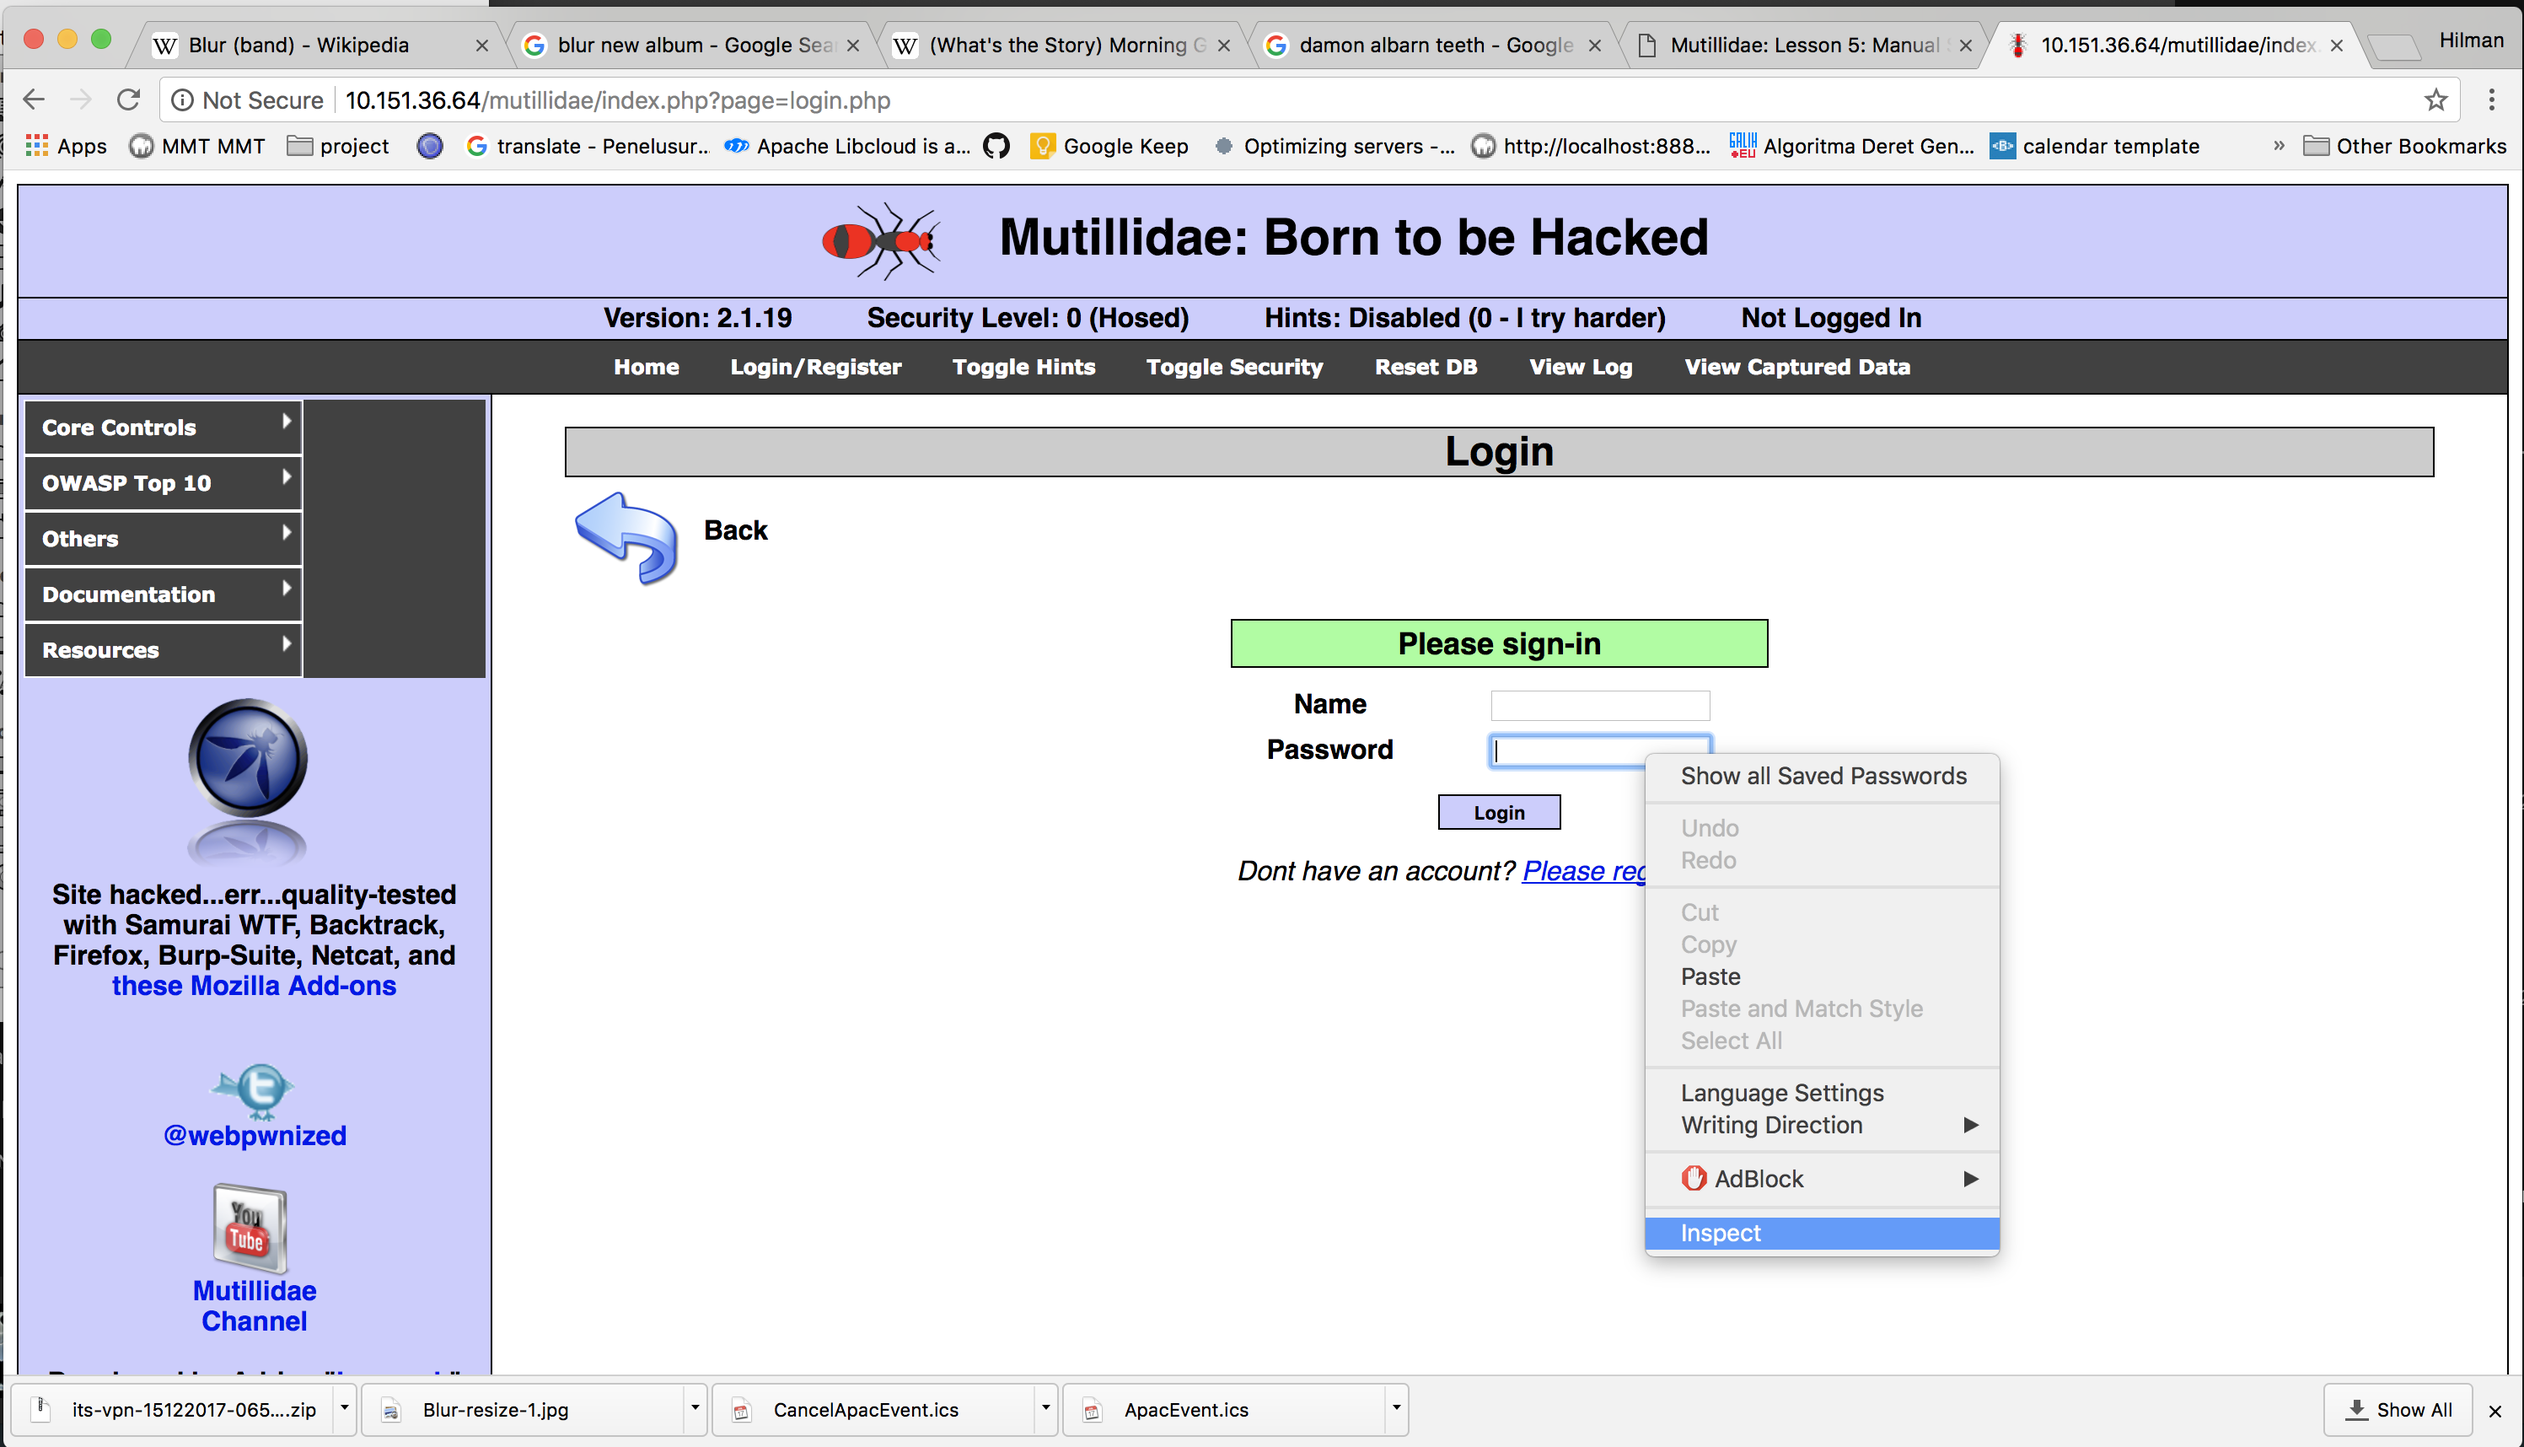
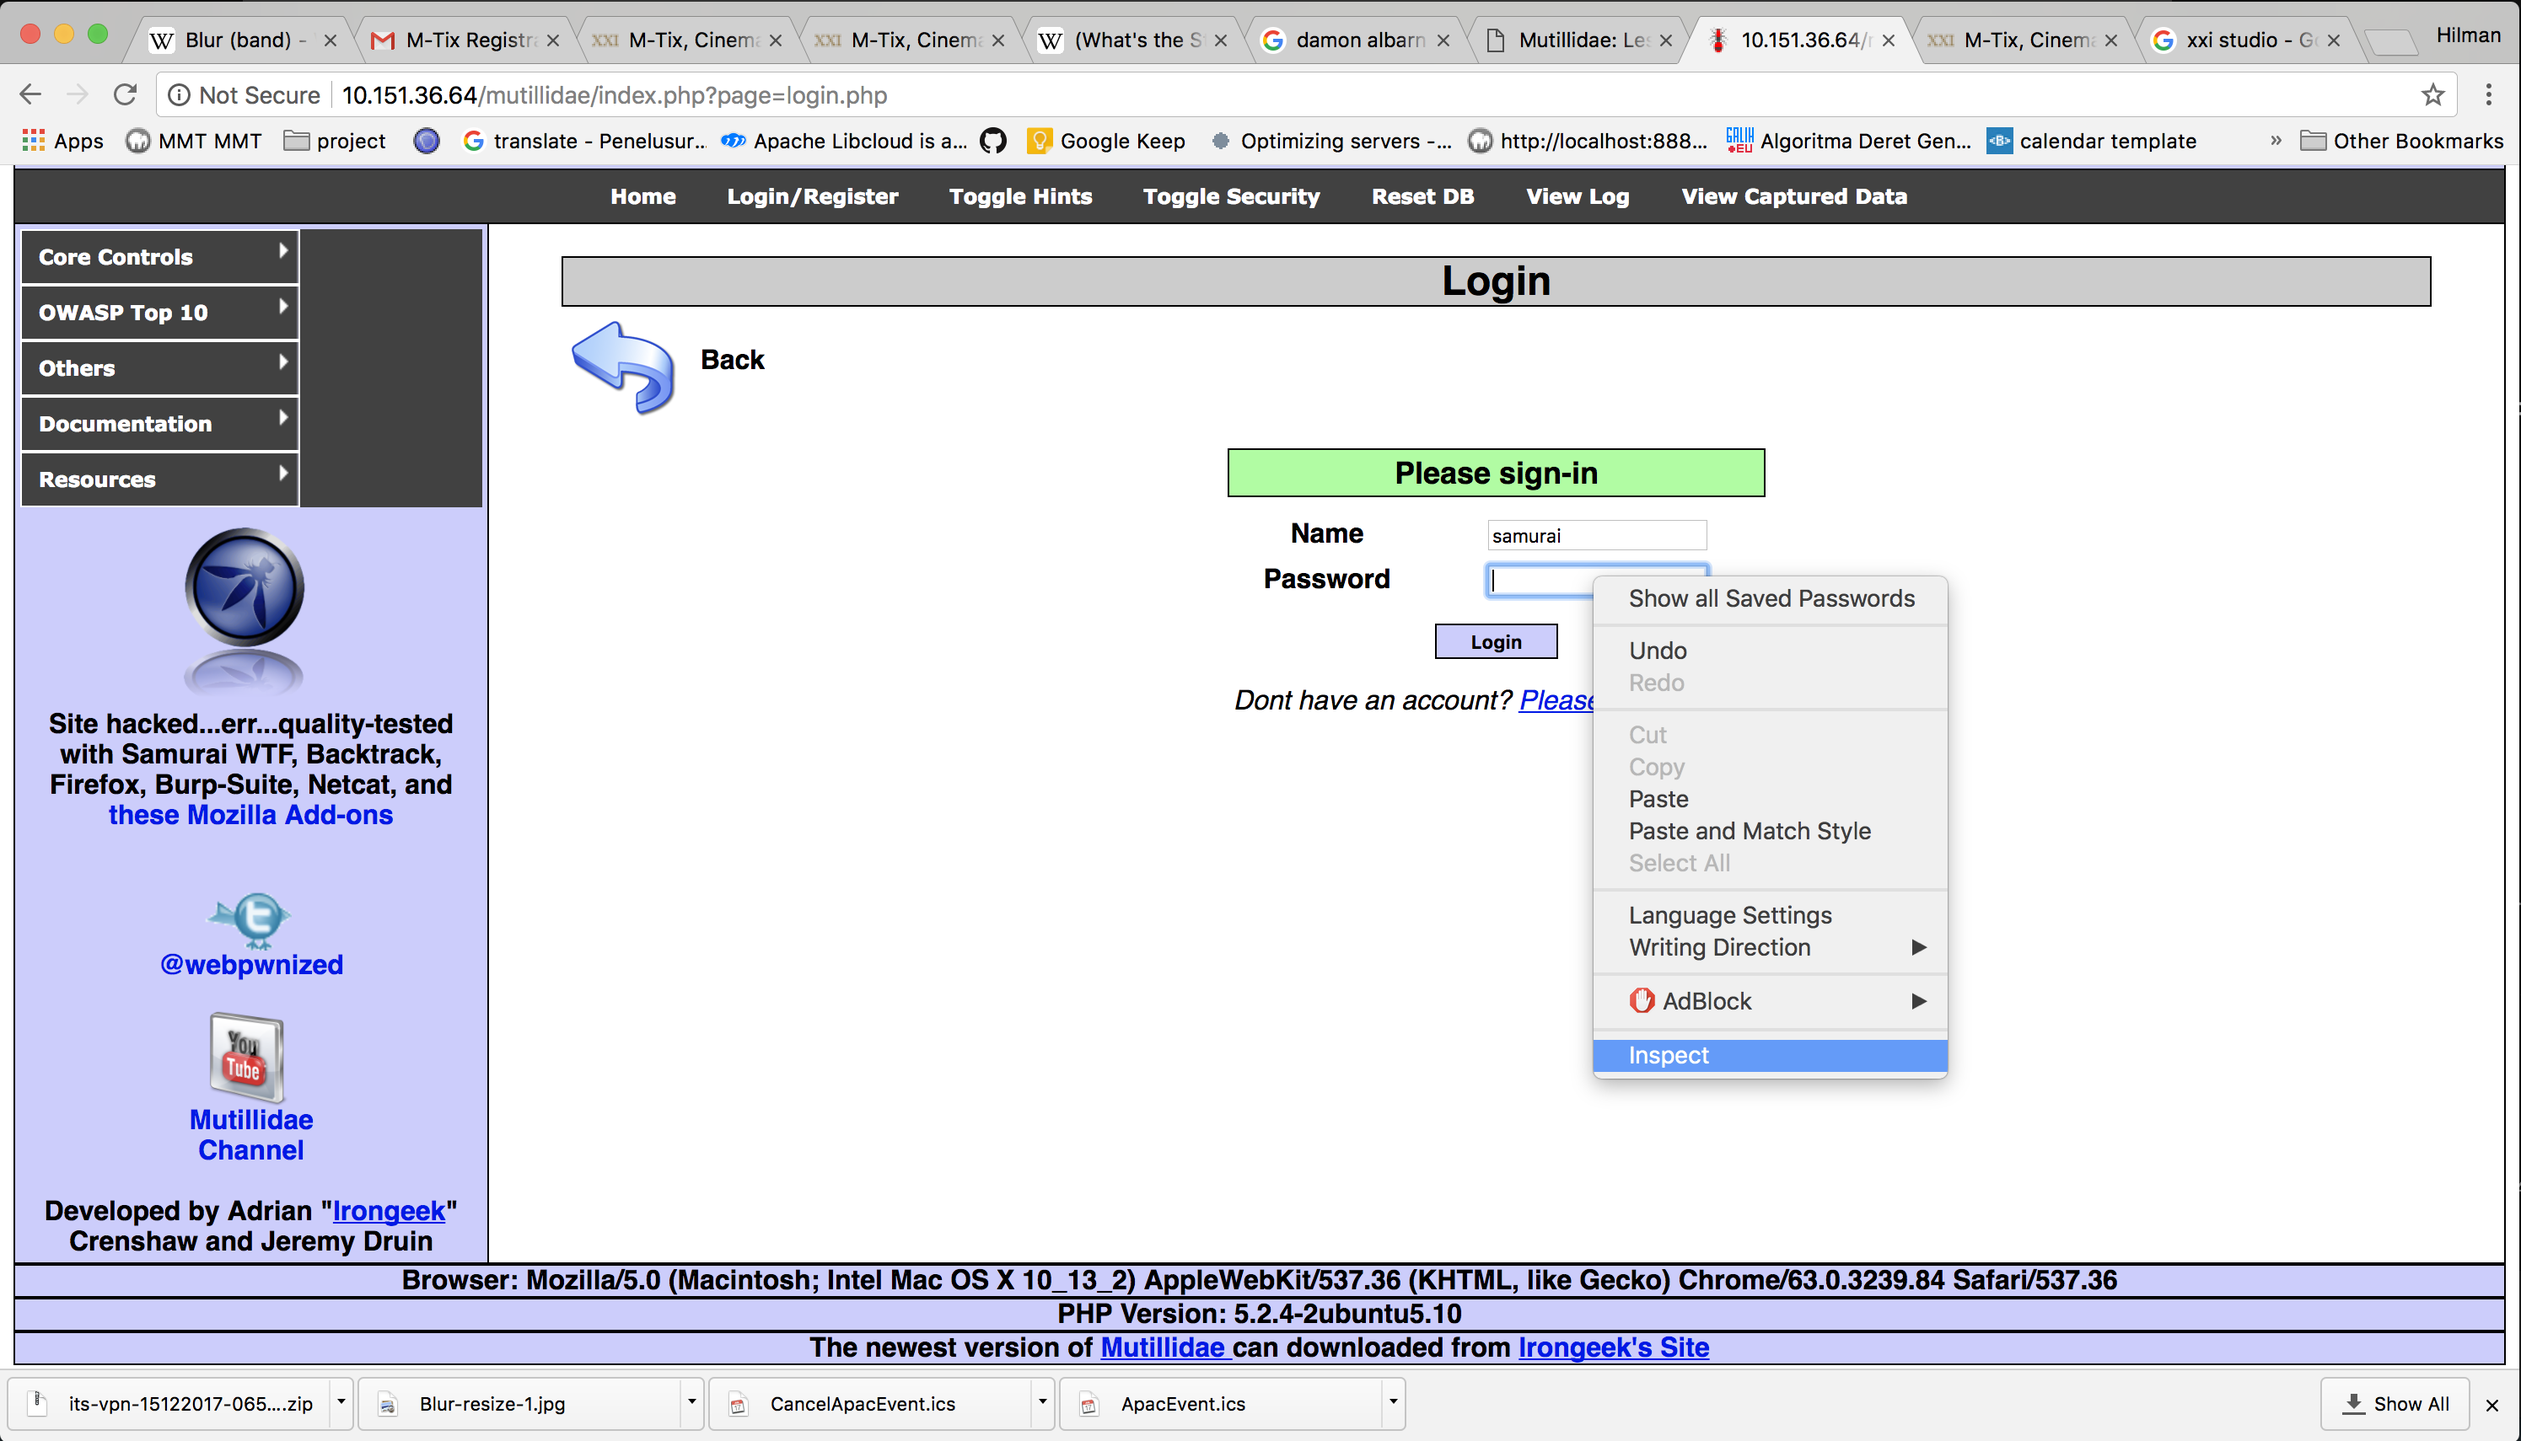
Updates laporan-1/assets/lesson-5/inspect-element-password.png
Auto commit by GitBook Editor

diff --git a/laporan-final/uji-coba-mutillidae/lesson-5.md b/laporan-final/uji-coba-mutillidae/lesson-5.md
@@ -37,7 +37,10 @@ Lesson 5
 - **Step 1**    : Buka Login/Register
 - **Step 2**    : Ketik `samurai` di kolom **Name**
 - **Step 3**    : Klik Kanan di kolom **Password**
-- **step 4**    : Klik **Inspect Element**
+- **Step 4**    : Klik **Inspect Element**
+    ![](/laporan-1/assets/lesson-5/inspect-element-password.png)
+- **Step 4**    : Ganti `password` dengan kata `text`
+
 
 
 
